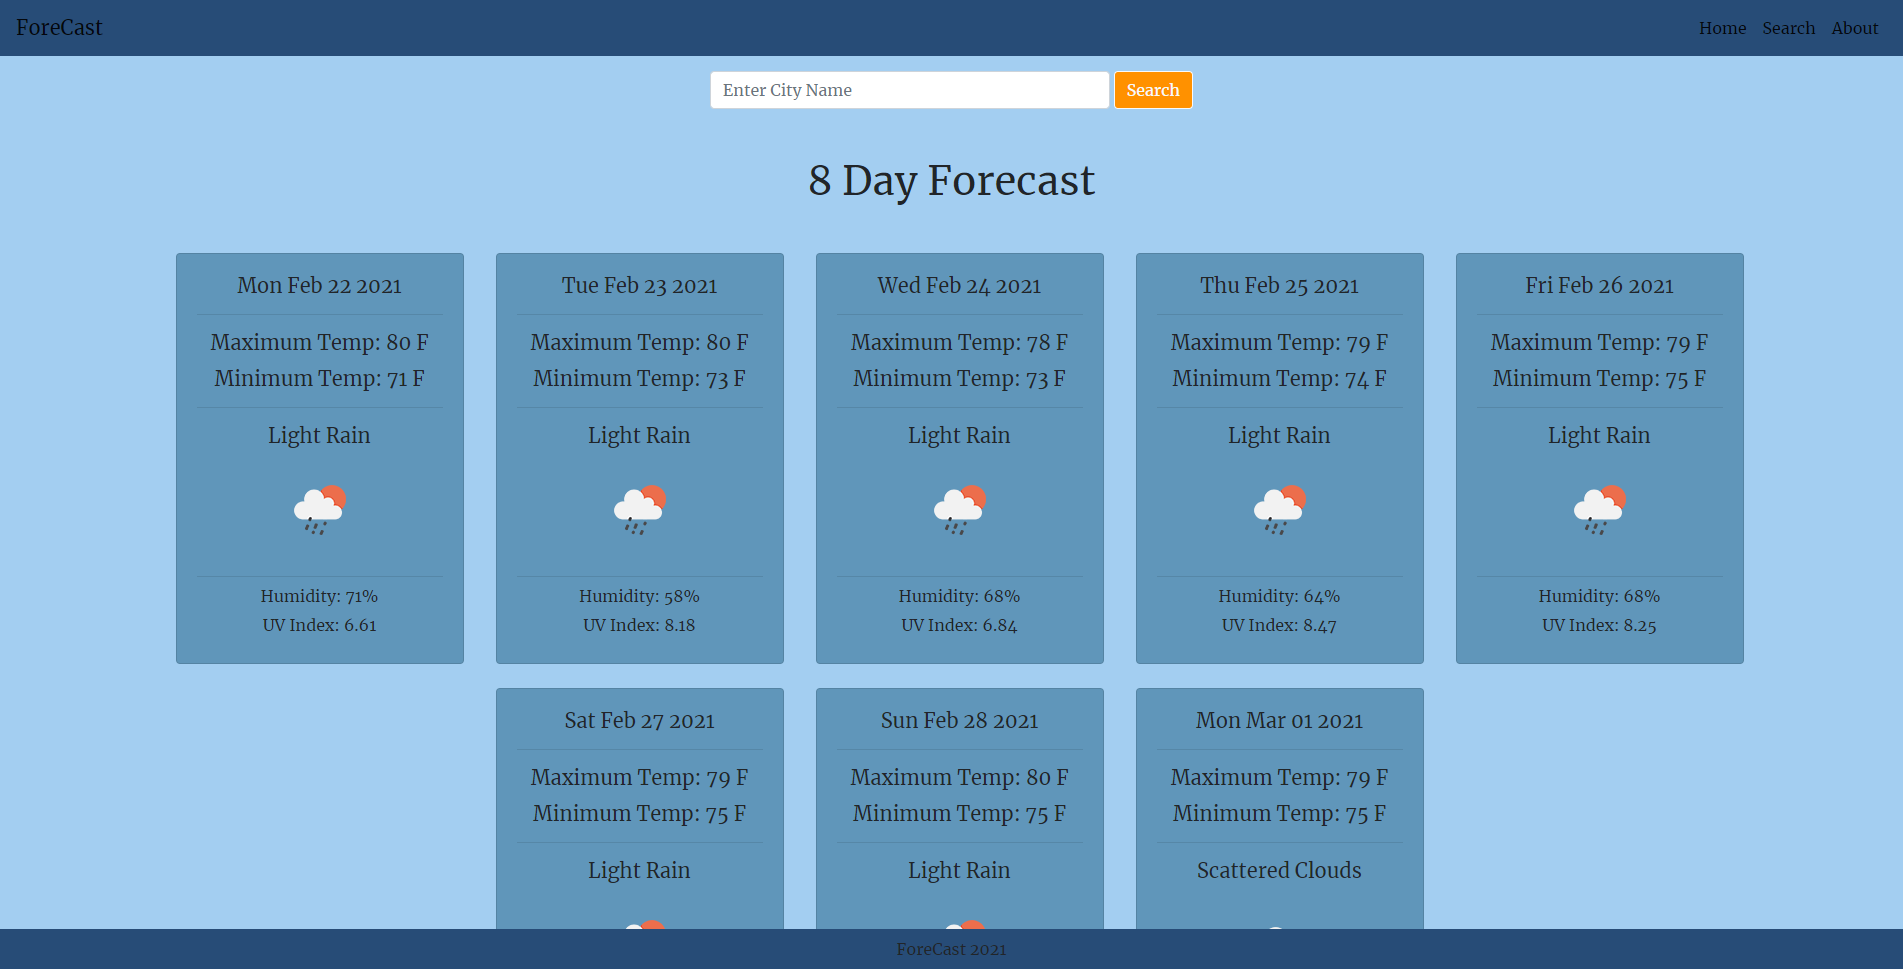
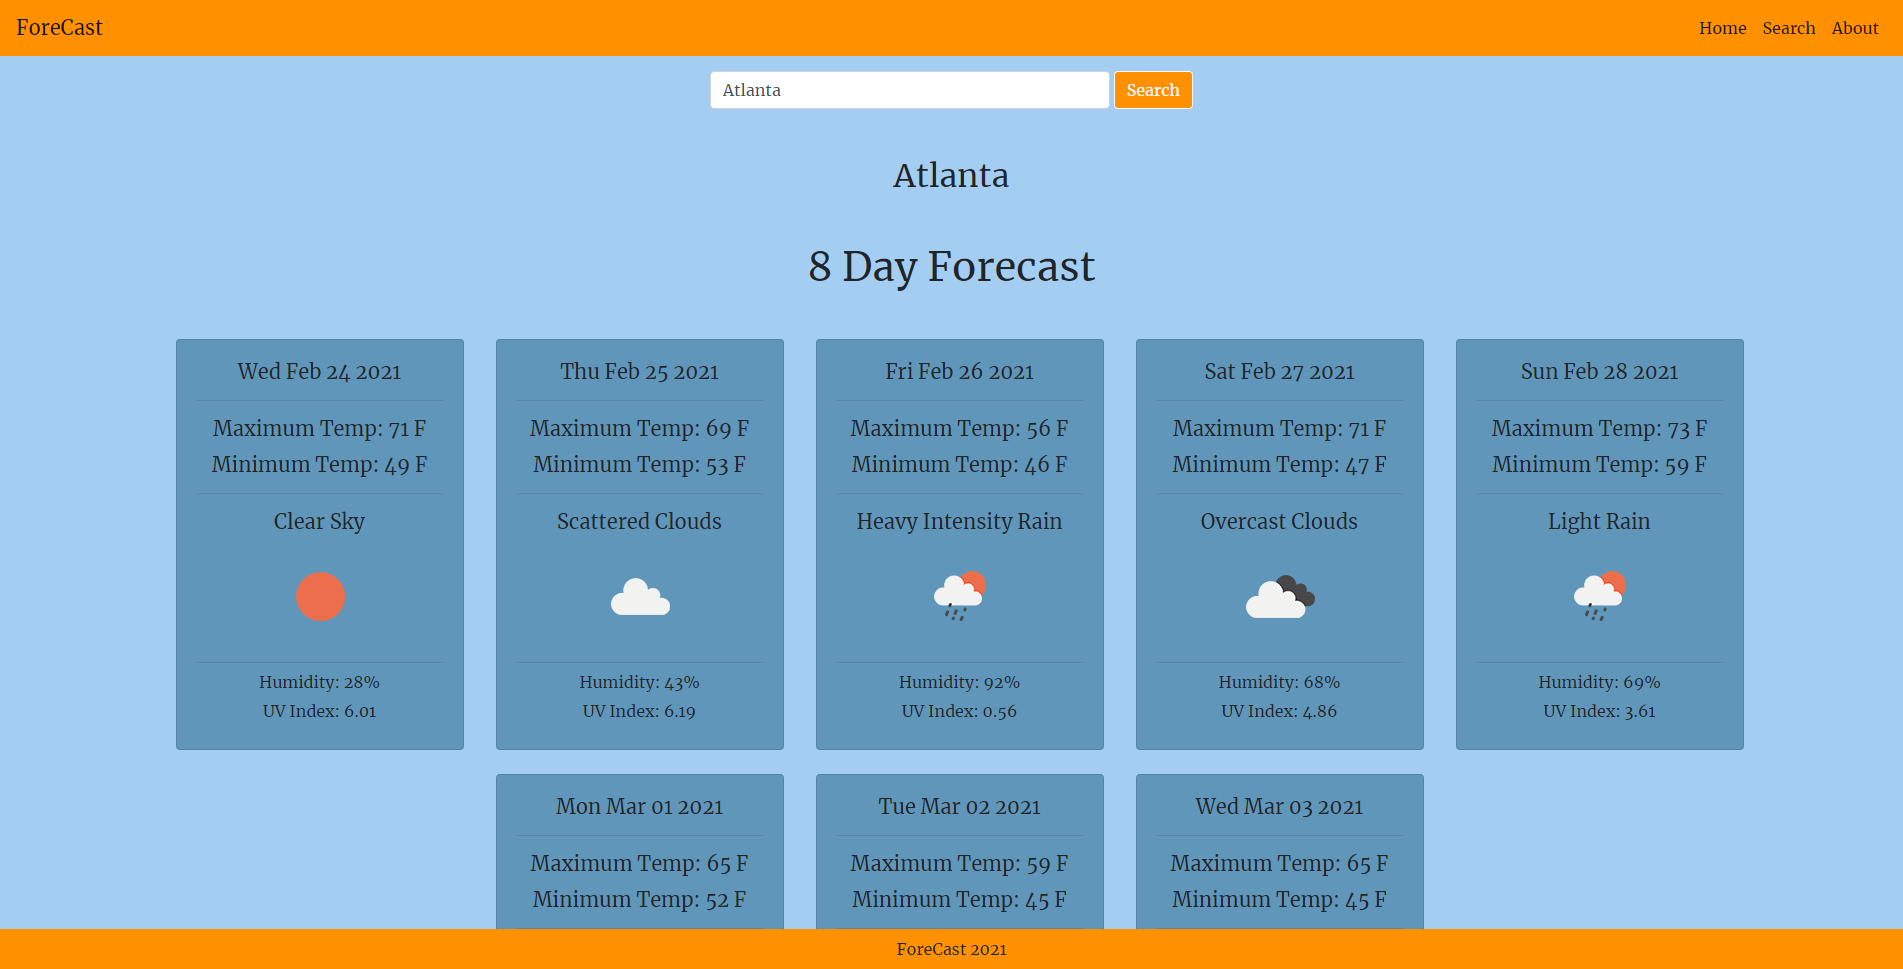
readme

diff --git a/src/assets/styles.css b/src/assets/styles.css
@@ -39,3 +39,82 @@ body{
 
 
 
+blockquote {
+    border-radius: 25px;
+    font-size: 1.1em;
+    line-height: 1.6em;
+    padding: 20px 20px 20px 40px;
+    border-left: none;
+    position: relative;
+    text-indent: -19px
+}
+
+section#block_content {
+    min-height: 400px;
+    padding-top: 40px;
+    text-align: left
+}
+
+blockquote p {
+    font-size: 1em
+}
+
+blockquote:before,
+blockquote:after {
+    font-family: Arial, serif;
+    font-size: 2.5em;
+    vertical-align: middle;
+    line-height: 0
+}
+
+blockquote:before {
+    content: open-quote;
+    margin-right: 4px
+}
+
+blockquote:after {
+    content: close-quote;
+    margin-left: 3px
+}
+
+blockquote.blockstyle,
+blockquote.style2 {
+    background: #fff;
+    font-style: italic
+}
+
+blockquote.blockstyle p,
+blockquote.style2 p {
+    display: inline
+}
+
+blockquote.blockstyle {
+    border-left: 3px solid #ff9100;
+    position: relative
+}
+
+
+
+blockquote.blockstyle:before,
+blockquote.blockstyle:after {
+    color: #ff9100
+}
+
+blockquote.blockstyle.border-color-blue {
+    border-color: #01b7f2
+}
+
+blockquote.blockstyle.border-color-blue>span.triangle:before {
+    color: #01b7f2
+}
+
+blockquote.blockstyle.border-color-yellow {
+    border-color: #fdb714
+}
+
+blockquote.blockstyle.border-color-yellow>span.triangle:before {
+    color: #fdb714
+}
+
+
+

diff --git a/src/components/Search.js b/src/components/Search.js
@@ -12,34 +12,31 @@ const Search = () => {
   
   const handleSubmit = async(e) => {
     e.preventDefault()
+    try {
     let result = await fetch(`${baseUrl}forecast?q=${inputValue}&appid=${appId}`)
     let data =  await result.json();
     console.log(inputValue)
     
     
-    
-    // try {
+    if(data?.city?.coord){
       const {
         city: {
           coord: {
             lat, lon
           }
         }
-      } = data //object desctructering based off what was in original api
+      } = data //object desctructering based off what was in original api pulling out the lat and lon of typed in city
       
-      
-      
-      
-      if (lat && lon) {
+      if (lat  && lon) {
         let result = await fetch(`${baseUrl}onecall?lat=${lat}&lon=${lon}&units=imperial&exclude=current,minutely,hourly,alerts&appid=${appId}`)
         let data =  await result.json();
         dispatch(update(data.daily)) 
       }
-
-    // } catch (error) {
-    //   console.log("Not a city");
-    // }
     }
+  } catch (error) {
+    console.log("Not a city");
+  }
+  }
     
     return (
       <>

diff --git a/src/App.js b/src/App.js
@@ -10,9 +10,17 @@ const App = () => {
         <div className="container">
         </div>
       </div>
-      <div className="text-center justify-content-center mt-5">
-        <p className="blockquote">Welcome to ForeCast! This App will allow you to search a city and return back an 8 day forecast. Use the navigation links in the top right to reach the search page and the about me page.</p>
+      <div className="text-center justify-content-center mt-5 pt-3">
+        <p className="lead">Welcome to ForeCast! This App will allow you to search a city and return back an 8 day forecast. Use the navigation links in the top right to reach the search page and the about me page.</p>
       </div>
+
+    <section id="block_content">
+      <div className="col-md-2 container">
+        <blockquote className="blockstyle">This app saved my marriage!</blockquote>
+        <blockquote className="blockstyle">I made a million dollars on this app!</blockquote>
+        <blockquote className="blockstyle">This app made me 20 years younger!</blockquote>
+      </div>
+    </section>
     </>
   )
 }

diff --git a/src/components/ErrorBoundry.js b/src/components/ErrorBoundry.js
@@ -4,17 +4,16 @@ import React from 'react'
 class ErrorBoundary extends React.Component {
     constructor(props) {
       super(props);
-      this.state = { hasError: false };
+      this.state = { isError: false };
     }
   
-    componentDidCatch(error, info) {
-      // Display fallback UI
-      this.setState({ hasError: true });
-      // You can also log the error to an error reporting service
-    }
+    static getDerivedStateFromError(error) {
+        // Update state so the next render will show the fallback UI.
+        return { isError: true };
+      }
   
     render() {
-      if (this.state.hasError) {
+      if (this.state.isError) {
         // You can render any custom fallback UI
         return <h1>Something went wrong.</h1>;
       }

diff --git a/src/components/DailyForecast.js b/src/components/DailyForecast.js
@@ -1,5 +1,6 @@
 import React, { Component } from 'react'
 import {connect} from 'react-redux'
+
 import Search from './Search';
 
 class DailyForecast extends Component {
@@ -8,8 +9,10 @@ class DailyForecast extends Component {
 
       <>
 
-          
+         
           <Search />
+         
+
 
           <h1 className="text-center mb-5 mt-5">8 Day Forecast</h1>
   

diff --git a/README.md b/README.md
@@ -1,7 +1,7 @@
 ## ForeCast 
 
 
-## Netlify <>
+## Netlify <https://angry-golick-71d890.netlify.app>
 
 
 This is app allows the user to search a city and return the 8 day forecast. The information on each card corresponds to one day. The informatio located on each card is the day, max temp, min temp, type of weather, picture of weather, humidity and UV index. 
@@ -19,15 +19,15 @@ To use this app simply navigate over to the search page via the navbar up at the
 - React.js, Redux.js, Bootstrap, CSS
 - API : Open Weather API
 
-**MVP**
+**MVP & Screen Shots**
 
-My base goal was to give the user the ability to search a city and return the results in a clean and clear format.
+My base goal was to give the user the ability to search a city and return the weather results in a clean and clear format.
 
-<img src="./public/images/image1.png" width="700" height="500">
+<img src="./src/assets/Home.png" width="700" height="500">
 
-<img src="./public/images/cards1.png" width="700" height="500">
+<img src="./src/assets/Search.png" width="700" height="500">
 
-<img src="./public/images/table.png" width="700" height="500">
+<img src="./src/assets/About.png" width="700" height="500">
 
 
 
@@ -57,12 +57,6 @@ Grab full details from open movie database:
 
     populateSearchResultCards(filteredResults);
 ```
-
-
-**Screen Shots and GIFS**
-
-
-
 
 **Developer Team**
 
